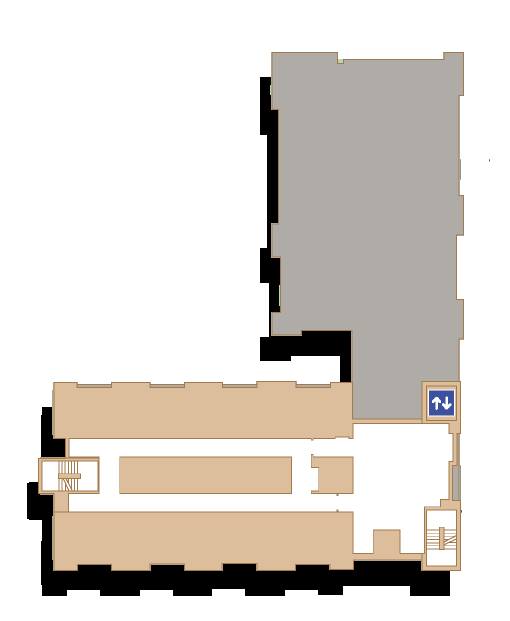
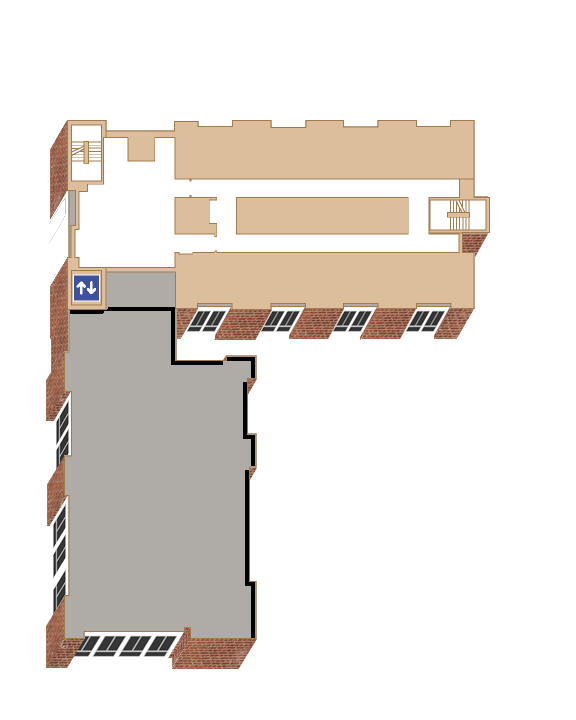
Messin a bit

diff --git a/src/groupg/controller/WelcomeScreenController.java b/src/groupg/controller/WelcomeScreenController.java
@@ -11,7 +11,6 @@ import groupg.jfx.UniqueFloor;
 import javafx.animation.Animation;
 import javafx.animation.FadeTransition;
 import javafx.animation.Transition;
-import javafx.application.Application;
 import javafx.fxml.FXML;
 import javafx.fxml.Initializable;
 import javafx.geometry.HPos;
@@ -120,6 +119,9 @@ public class WelcomeScreenController implements Initializable {
         menuPane.setVisible(false);
         menuPane.setPickOnBounds(false);
 
+        mapPane.setTranslateX(0);
+        mapPane.setTranslateY(-200);
+//        mapGroup
 //        menuPane
 
 
@@ -191,7 +193,7 @@ public class WelcomeScreenController implements Initializable {
             }
             else if (f.getBuildingID() == 0) {
                 b++;
-                UniqueFloor uf = new UniqueFloor(f, mapGroup, 1065+i*12, 435-i*25, 1065+i*12, -700, b);
+                UniqueFloor uf = new UniqueFloor(f, mapGroup, 3350, 2625, 3350, -700, b);
                 FaulknerFloors.add(uf);
                 uf.getImageView().setOnMouseClicked( event -> {
                     System.out.println("BELKIN!");
@@ -416,6 +418,7 @@ private void removefloors(){
         return ft;
     }
 
+
     private Animation scaleImage(double x, double y, double scaleIn, double time) {
 
         mapGroup.getTransforms().clear();
@@ -425,6 +428,10 @@ private void removefloors(){
 
 
         mapGroup.getTransforms().add(scale);
+        double px = scale.getPivotX();
+        double py = scale.getPivotY();
+        System.out.println("px + \", \"+py = " + px + ", "+py);
+
         final Animation expandPanel = new Transition() {
             {
                 setCycleDuration(Duration.millis(time));
@@ -436,14 +443,30 @@ private void removefloors(){
                 mapGroup.getTransforms().add(scale);
 
                 double newScale = curScale + fraction * (scaleIn - curScale);
+                double newY = curY + fraction * (y - curY);
+                double newX = curX + fraction * (x - curX);
 
+                mapGroup.setTranslateX(-newX * newScale);
+                mapGroup.setTranslateY(-newY * newScale);
+                scale.setPivotX(newX);
+                scale.setPivotX(newY);
+
+
+                newScale = curScale + fraction * (scaleIn - curScale);
                 scale.setX(newScale);
                 scale.setY(newScale);
 
-                double newX = curX + fraction * (x - curX);
-                mapGroup.setTranslateX(-newX * newScale);
-                double newY = curY + fraction * (y - curY);
-                mapGroup.setTranslateY(-newY * newScale);
+
+
+
+//                fraction = Math.pow(fraction, .7);
+
+
+
+//                scale.setPivotX(newX);
+//                scale.setPivotY(newY);
+
+
             }
         };
         expandPanel.setOnFinished(e -> {
